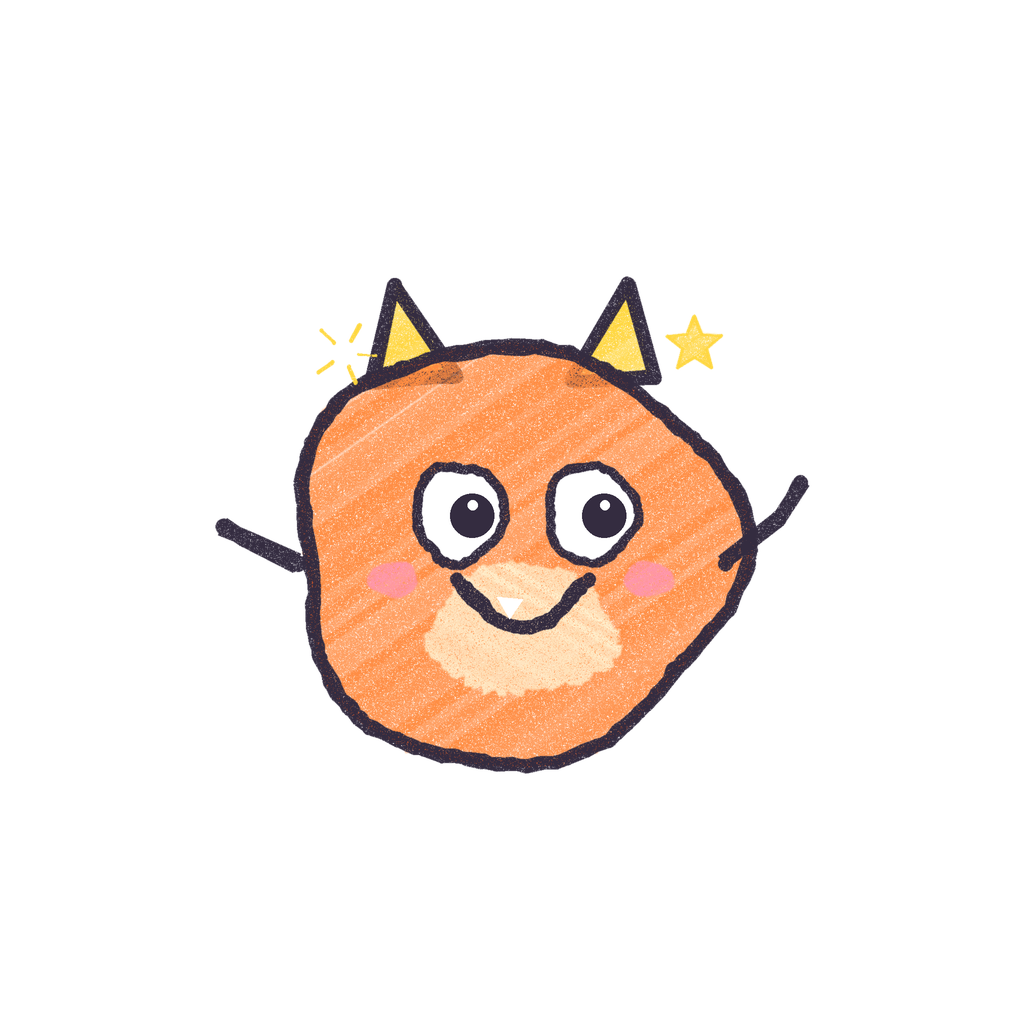
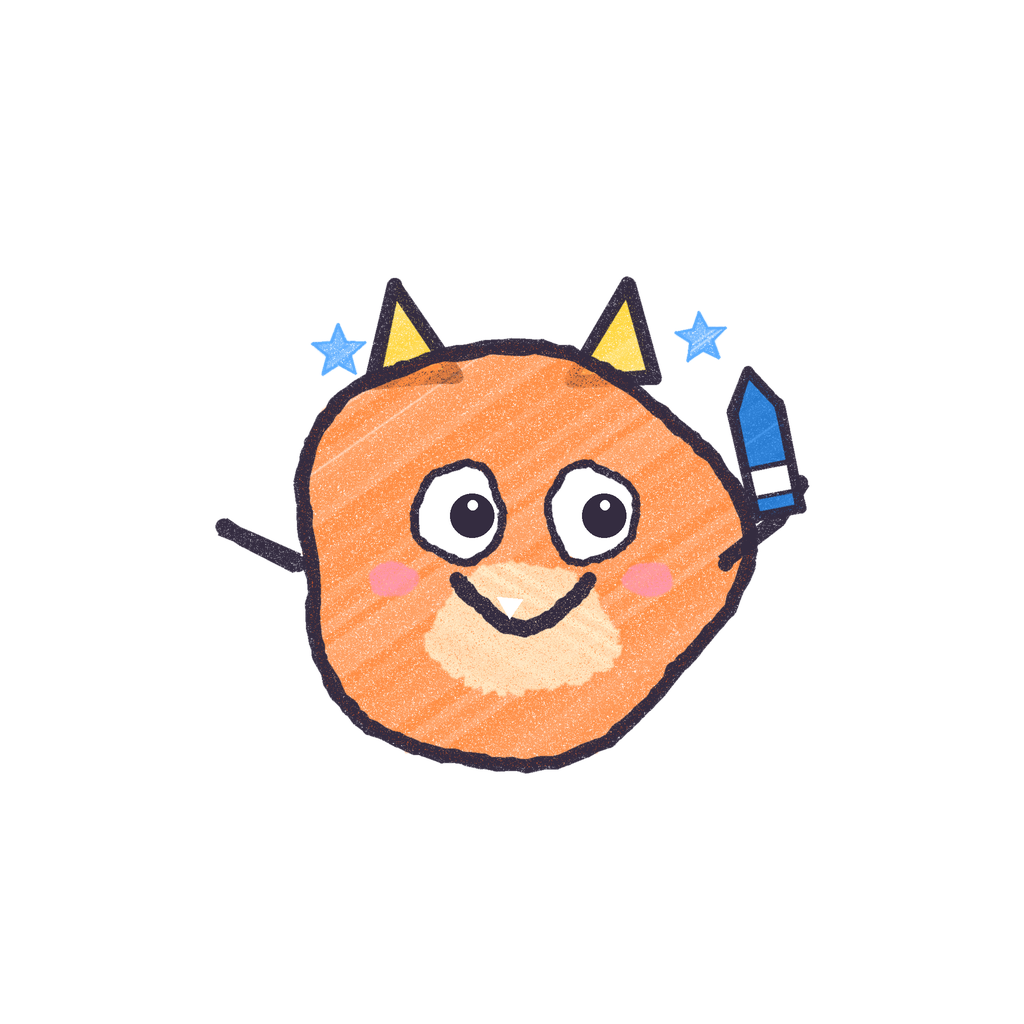
Rename launcher label, iOS display name, store listing; new placeholder graphics
- AndroidManifest android:label and CFBundleDisplayName: おえかきファイターズ
- Store title 「おえかきファイターズ らくがきが たたかう」 (21/30), short
  description with お絵かき/バトル, full description covers the v1.1
  features (おだい, かぞくで たいせん, カード, どうが) and こうこくなしパス
- gen_graphics.py: two-line title on the feature graphic, monsters hold a
  crayon like a sword (icon, adaptive foreground/monochrome inside the
  66dp safe zone); regenerated icon, feature graphic, launcher mipmaps
- check_release.sh warns unless the label is おえかきファイターズ
- Comments/descriptions in CI, Fastfile, functions, TS engine, site CSS

Claude-Session: https://claude.ai/code/session_01QRHLaYFdZHWgzxL5AWfKrR

diff --git a/firebase/functions/src/ai/prompts.ts b/firebase/functions/src/ai/prompts.ts
@@ -23,7 +23,7 @@ const ORIGIN_RULES = `origin: where the picture comes from. The app only accepts
 - photo_print_or_screen: a photograph of real objects, people or places, a printed picture (magazine, book, sticker, printout; halftone dots) or a photo of a screen (pixel grid, moiré).
 - unsure: anything in between. Children's drawings vary enormously; wrongly refusing a real child's drawing is the worst possible mistake, so answer ai_generated or photo_print_or_screen only when you are confident, and unsure otherwise.`;
 
-export const JUDGE_SYSTEM_PROMPT = `You are the friendly art judge inside 「らくがきバトル」, a Japanese game for young children. A child drew a creature on paper; the app cut it out and sends you the picture. Your JSON answer is filtered by software and then shown to that child only.
+export const JUDGE_SYSTEM_PROMPT = `You are the friendly art judge inside 「おえかきファイターズ」, a Japanese game for young children. A child drew a creature on paper; the app cut it out and sends you the picture. Your JSON answer is filtered by software and then shown to that child only.
 
 ${SECURITY_RULES}
 
@@ -38,7 +38,7 @@ Fill in the JSON fields:
 - ${ORIGIN_RULES}
 Monsters with fangs or claws, cute battles, a hero with a sword, and grumpy faces are fine for this game.`;
 
-export const MODERATION_SYSTEM_PROMPT = `You are the safety reviewer for 「らくがきバトル」, a Japanese game for children under 13 that follows Google Play's Families policy. Before a child's drawing and character names are shown to other children online, you decide whether they are safe. Be strict: when unsure, reject.
+export const MODERATION_SYSTEM_PROMPT = `You are the safety reviewer for 「おえかきファイターズ」, a Japanese game for children under 13 that follows Google Play's Families policy. Before a child's drawing and character names are shown to other children online, you decide whether they are safe. Be strict: when unsure, reject.
 
 ${SECURITY_RULES}
 

diff --git a/site/style.css b/site/style.css
@@ -1,4 +1,4 @@
-/* らくがきバトル: policy / support pages. Plain CSS, no web fonts, no trackers. */
+/* おえかきファイターズ: policy / support pages. Plain CSS, no web fonts, no trackers. */
 :root {
   --ink: #1f1a3d;
   --paper: #fff8e7;

diff --git a/firebase/functions/src/index.ts b/firebase/functions/src/index.ts
@@ -1,5 +1,5 @@
 /**
- * らくがきバトル Cloud Functions (v2, asia-northeast1).
+ * おえかきファイターズ Cloud Functions (v2, asia-northeast1).
  * See docs/BACKEND.md for contracts, data model and deployment.
  */
 import "./config";

diff --git a/store/tools/gen_graphics.py b/store/tools/gen_graphics.py
@@ -1,5 +1,5 @@
 #!/usr/bin/env python3
-"""Generate PLACEHOLDER store graphics and launcher-icon sources for らくがきバトル.
+"""Generate PLACEHOLDER store graphics and launcher-icon sources for おえかきファイターズ.
 
 Outputs (all deterministic for a given SEED):
   store/metadata/ja-JP/images/icon.png          Play Store hi-res icon, 512x512, 32-bit PNG
@@ -161,8 +161,43 @@ def star(cx, cy, r_out, r_in, points=5, rot=-90):
 
 
 # --------------------------------------------------------------------------- characters
-def doodle_monster(img, cx, cy, r, body, body_dark, rng, facing=1, mono=False):
-    """A round crayon monster with horns, stubby arms, big eyes and a grin."""
+def crayon_prop(img, x, y, length, angle_deg, color, rng, mono=False):
+    """A crayon held like a little sword: body from (x, y) towards angle_deg
+    (0 = right, 90 = up), pointed tip, paper wrapper band, ink outline."""
+    a = math.radians(angle_deg)
+    ux, uy = math.cos(a), -math.sin(a)
+    vx, vy = -uy, ux
+    hw = length * 0.16
+    body_len = length * 0.74
+
+    def at(t, w):
+        return (x + ux * t + vx * w, y + uy * t + vy * w)
+
+    body = [at(0, -hw), at(body_len, -hw), at(body_len, hw), at(0, hw)]
+    tip = [at(body_len, -hw), at(length, 0), at(body_len, hw)]
+    band = [at(body_len * 0.18, -hw), at(body_len * 0.45, -hw), at(body_len * 0.45, hw), at(body_len * 0.18, hw)]
+    shape = [body[0], body[1], tip[1], body[2], body[3]]
+    ink = (255, 255, 255) if mono else INK
+    lw = max(2, length * 0.07)
+    if mono:
+        m = Image.new("L", img.size, 0)
+        ImageDraw.Draw(m).polygon(shape, fill=255)
+        layer = Image.new("RGBA", img.size, (255, 255, 255, 0))
+        layer.putalpha(m)
+        img.alpha_composite(layer)
+    else:
+        ImageDraw.Draw(img).polygon(shape, fill=color + (255,))
+        crayon_fill(img, shape, tuple(max(0, c - 50) for c in color), rng, hatch=max(3, length * 0.05),
+                    spill=0)
+        ImageDraw.Draw(img).polygon(band, fill=(255, 255, 255, 255))
+        crayon_line(img, band[1:3], ink, lw * 0.6, rng, passes=2)
+        crayon_line(img, [band[3], band[0]], ink, lw * 0.6, rng, passes=2)
+    crayon_line(img, body[:1] + tip[:1] + tip[1:2] + tip[2:] + body[3:], ink, lw, rng, closed=True)
+
+
+def doodle_monster(img, cx, cy, r, body, body_dark, rng, facing=1, mono=False, prop=None):
+    """A round crayon monster with horns, stubby arms, big eyes and a grin.
+    With `prop` (a colour) it holds up a crayon like a sword in its raised hand."""
     line_w = max(3, int(r * 0.075))
     ink = (255, 255, 255) if mono else INK
     # horns
@@ -193,6 +228,10 @@ def doodle_monster(img, cx, cy, r, body, body_dark, rng, facing=1, mono=False):
         arm = [(ax, cy + r * 0.05), (ax + side * r * 0.24, cy - r * lift * 0.5),
                (ax + side * r * 0.34, cy - r * lift)]
         crayon_line(img, arm, ink, line_w, rng)
+        if prop is not None and side == facing:
+            # held upright, leaning a little inwards (stays inside the adaptive-icon safe zone)
+            crayon_prop(img, arm[-1][0] - side * r * 0.1, arm[-1][1] + r * 0.14, r * 0.66,
+                        90 + side * 12, prop, rng, mono=mono)
     if mono:
         return
     # eyes
@@ -271,7 +310,7 @@ def make_icon(px: int) -> Image.Image:
     img = paper((s, s), rng)
     sparkles(img, rng, [(s * 0.06, s * 0.06, s * 0.3, s * 0.3), (s * 0.72, s * 0.08, s * 0.94, s * 0.28)],
              [YELLOW, BLUE, GREEN, PINK], 4, (s * 0.04, s * 0.07))
-    doodle_monster(img, s * 0.5, s * 0.56, s * 0.32, ORANGE, ORANGE_DARK, rng)
+    doodle_monster(img, s * 0.5, s * 0.56, s * 0.32, ORANGE, ORANGE_DARK, rng, prop=BLUE)
     return img.resize((px, px), Image.LANCZOS)
 
 
@@ -280,7 +319,7 @@ def make_foreground(px: int, mono=False) -> Image.Image:
     s = px * SS
     img = Image.new("RGBA", (s, s), (0, 0, 0, 0))
     # adaptive icons: 108dp canvas, ~66dp guaranteed visible circle -> keep within r ~ 0.30*s
-    doodle_monster(img, s * 0.5, s * 0.54, s * 0.215, ORANGE, ORANGE_DARK, rng, mono=mono)
+    doodle_monster(img, s * 0.5, s * 0.54, s * 0.215, ORANGE, ORANGE_DARK, rng, mono=mono, prop=BLUE)
     if not mono:
         sparkles(img, rng, [(s * 0.27, s * 0.27, s * 0.36, s * 0.36), (s * 0.64, s * 0.28, s * 0.72, s * 0.36)],
                  [YELLOW, BLUE], 2, (s * 0.025, s * 0.04))
@@ -302,26 +341,33 @@ def make_feature() -> Image.Image:
     W, H = 1024 * SS, 500 * SS
     img = paper((W, H), rng)
     scribble_bg(img, rng, [YELLOW, BLUE, GREEN, PINK, PURPLE], 26)
-    # two monsters facing each other
-    doodle_monster(img, W * 0.135, H * 0.64, H * 0.19, ORANGE, ORANGE_DARK, rng, facing=1)
-    doodle_monster(img, W * 0.865, H * 0.64, H * 0.19, BLUE, BLUE_DARK, rng, facing=-1)
-    sparkles(img, rng, [(W * 0.3, H * 0.08, W * 0.7, H * 0.2), (W * 0.32, H * 0.78, W * 0.68, H * 0.92)],
+    # two crayon fighters facing each other
+    doodle_monster(img, W * 0.135, H * 0.64, H * 0.19, ORANGE, ORANGE_DARK, rng, facing=1, prop=BLUE)
+    doodle_monster(img, W * 0.865, H * 0.64, H * 0.19, BLUE, BLUE_DARK, rng, facing=-1, prop=PINK)
+    sparkles(img, rng, [(W * 0.3, H * 0.03, W * 0.7, H * 0.12), (W * 0.32, H * 0.84, W * 0.68, H * 0.95)],
              [YELLOW, PINK, GREEN, PURPLE], 9, (H * 0.03, H * 0.05))
     fp = str(font_path())
-    title = "らくがきバトル"
+    d = ImageDraw.Draw(img)
+    # app name on two lines: small 「おえかき」 over a big 「ファイターズ」
+    top, main_title = "おえかき", "ファイターズ"
+    f_top = ImageFont.truetype(fp, int(H * 0.105))
     f = ImageFont.truetype(fp, int(H * 0.165))
-    bb = ImageDraw.Draw(img).textbbox((0, 0), title, font=f)
-    tw, th = bb[2] - bb[0], bb[3] - bb[1]
-    tx, ty = (W - tw) / 2 - bb[0], H * 0.3 - bb[1]
-    outlined_text(img, (tx, ty), title, f, (255, 255, 255), ORANGE_DARK, H * 0.022, rng)
+    bt = d.textbbox((0, 0), top, font=f_top)
+    bb = d.textbbox((0, 0), main_title, font=f)
+    ty_top = H * 0.14 - bt[1]
+    outlined_text(img, ((W - (bt[2] - bt[0])) / 2 - bt[0], ty_top), top, f_top, (255, 255, 255), BLUE_DARK,
+                  H * 0.018, rng)
+    tw = bb[2] - bb[0]
+    tx, ty = (W - tw) / 2 - bb[0], ty_top + bt[3] + H * 0.035 - bb[1]
+    outlined_text(img, (tx, ty), main_title, f, (255, 255, 255), ORANGE_DARK, H * 0.022, rng)
     # crayon underline
-    crayon_line(img, [(W * 0.34 + i * W * 0.32 / 20, ty + bb[3] + H * 0.05 + math.sin(i / 2.0) * H * 0.008)
+    crayon_line(img, [(W * 0.34 + i * W * 0.32 / 20, ty + bb[3] + H * 0.045 + math.sin(i / 2.0) * H * 0.008)
                       for i in range(21)], YELLOW, H * 0.02, rng)
-    sub = "かいた えが キャラになるよ！"
+    sub = "かみに かいた えが たたかう！"
     f2 = ImageFont.truetype(fp, int(H * 0.058))
-    bb2 = ImageDraw.Draw(img).textbbox((0, 0), sub, font=f2)
+    bb2 = d.textbbox((0, 0), sub, font=f2)
     sx = (W - (bb2[2] - bb2[0])) / 2 - bb2[0]
-    sy = ty + bb[3] + H * 0.12
+    sy = ty + bb[3] + H * 0.105
     outlined_text(img, (sx, sy), sub, f2, INK, (255, 255, 255), H * 0.012, rng)
     return img.resize((1024, 500), Image.LANCZOS).convert("RGB")
 

diff --git a/README.md b/README.md
@@ -1,4 +1,6 @@
-# らくがきバトル (doodle-battle)
+# おえかきファイターズ (doodle-battle)
+
+> 旧仮称「らくがきバトル」から改名しました（docs/SPEC.md §11.4）。リポジトリ名・Dart パッケージ名 `doodle_battle`・applicationId などの内部の識別子は変えていません。
 
 子どもの描いた絵を読み込んでキャラクターにして戦うゲーム。上手さではなく、子どもらしい線や色がそのままキャラの個性になる（内部の補正は見せない: docs/SPEC.md §11.1）。紙に手で描いた絵だけを受け付ける（docs/TRUST.md）。
 

diff --git a/app/README.md b/app/README.md
@@ -1,6 +1,6 @@
 # doodle_battle
 
-らくがきバトル
+おえかきファイターズ（Flutter パッケージ名は `doodle_battle` のまま）
 
 ## Getting Started
 
